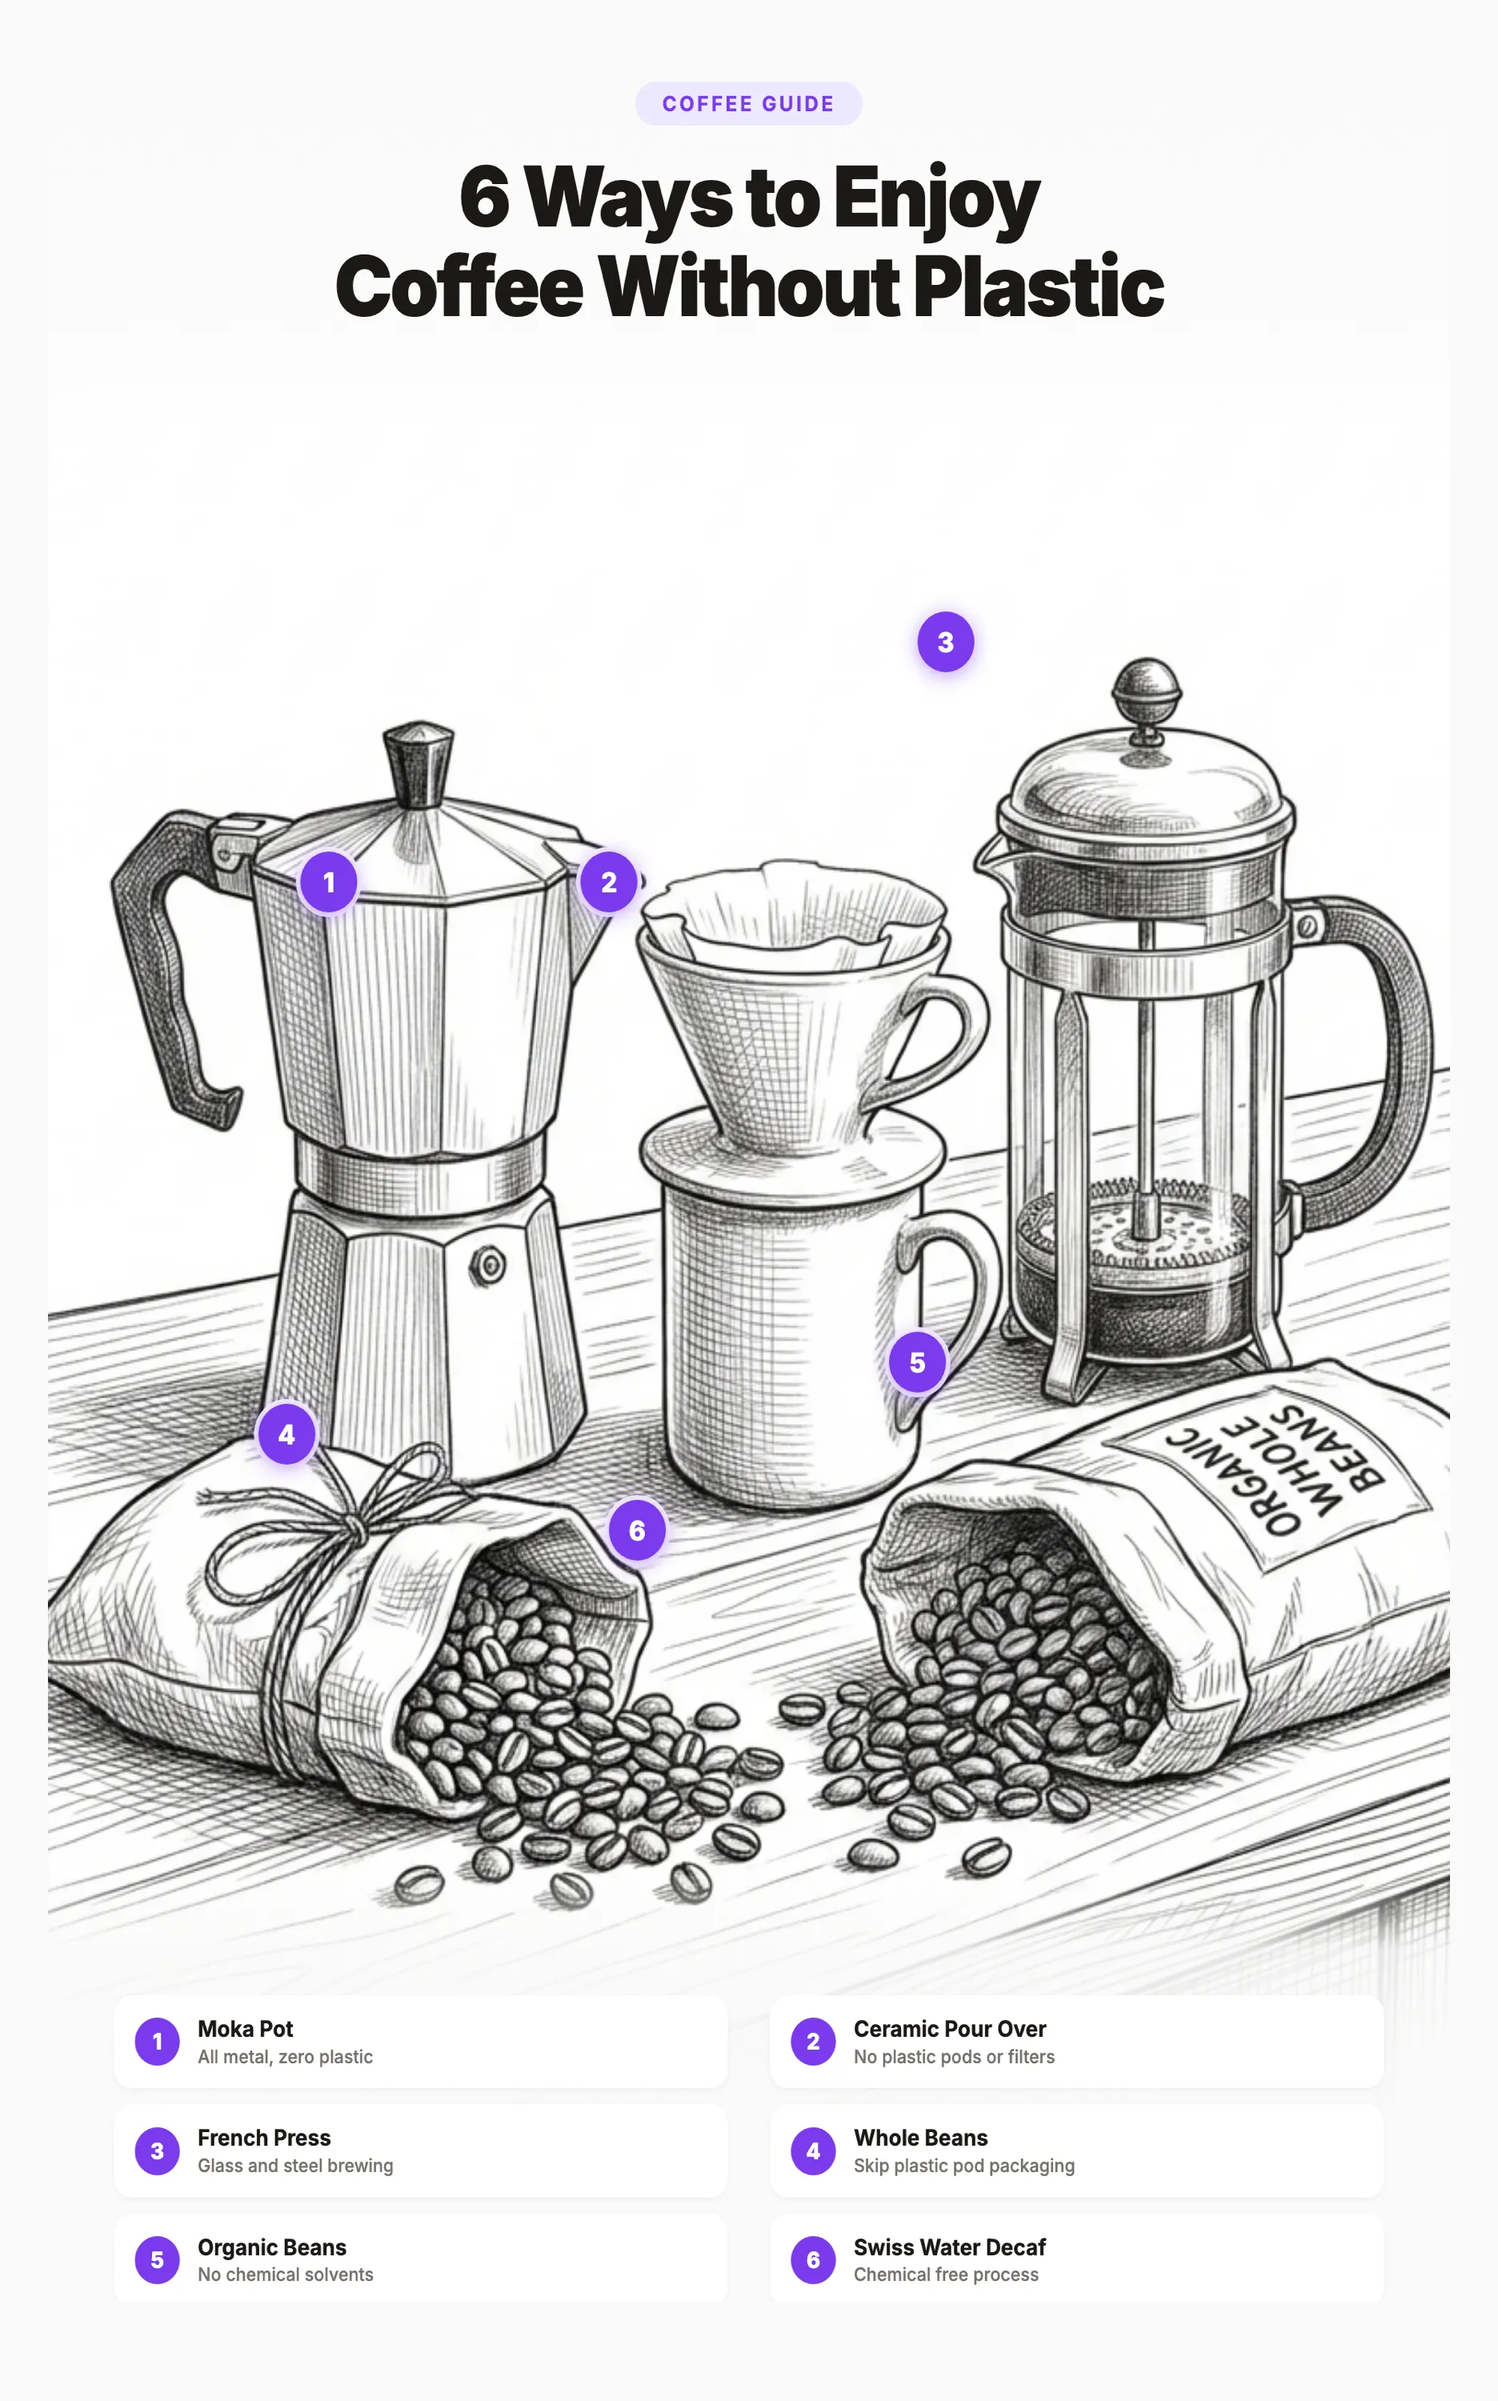
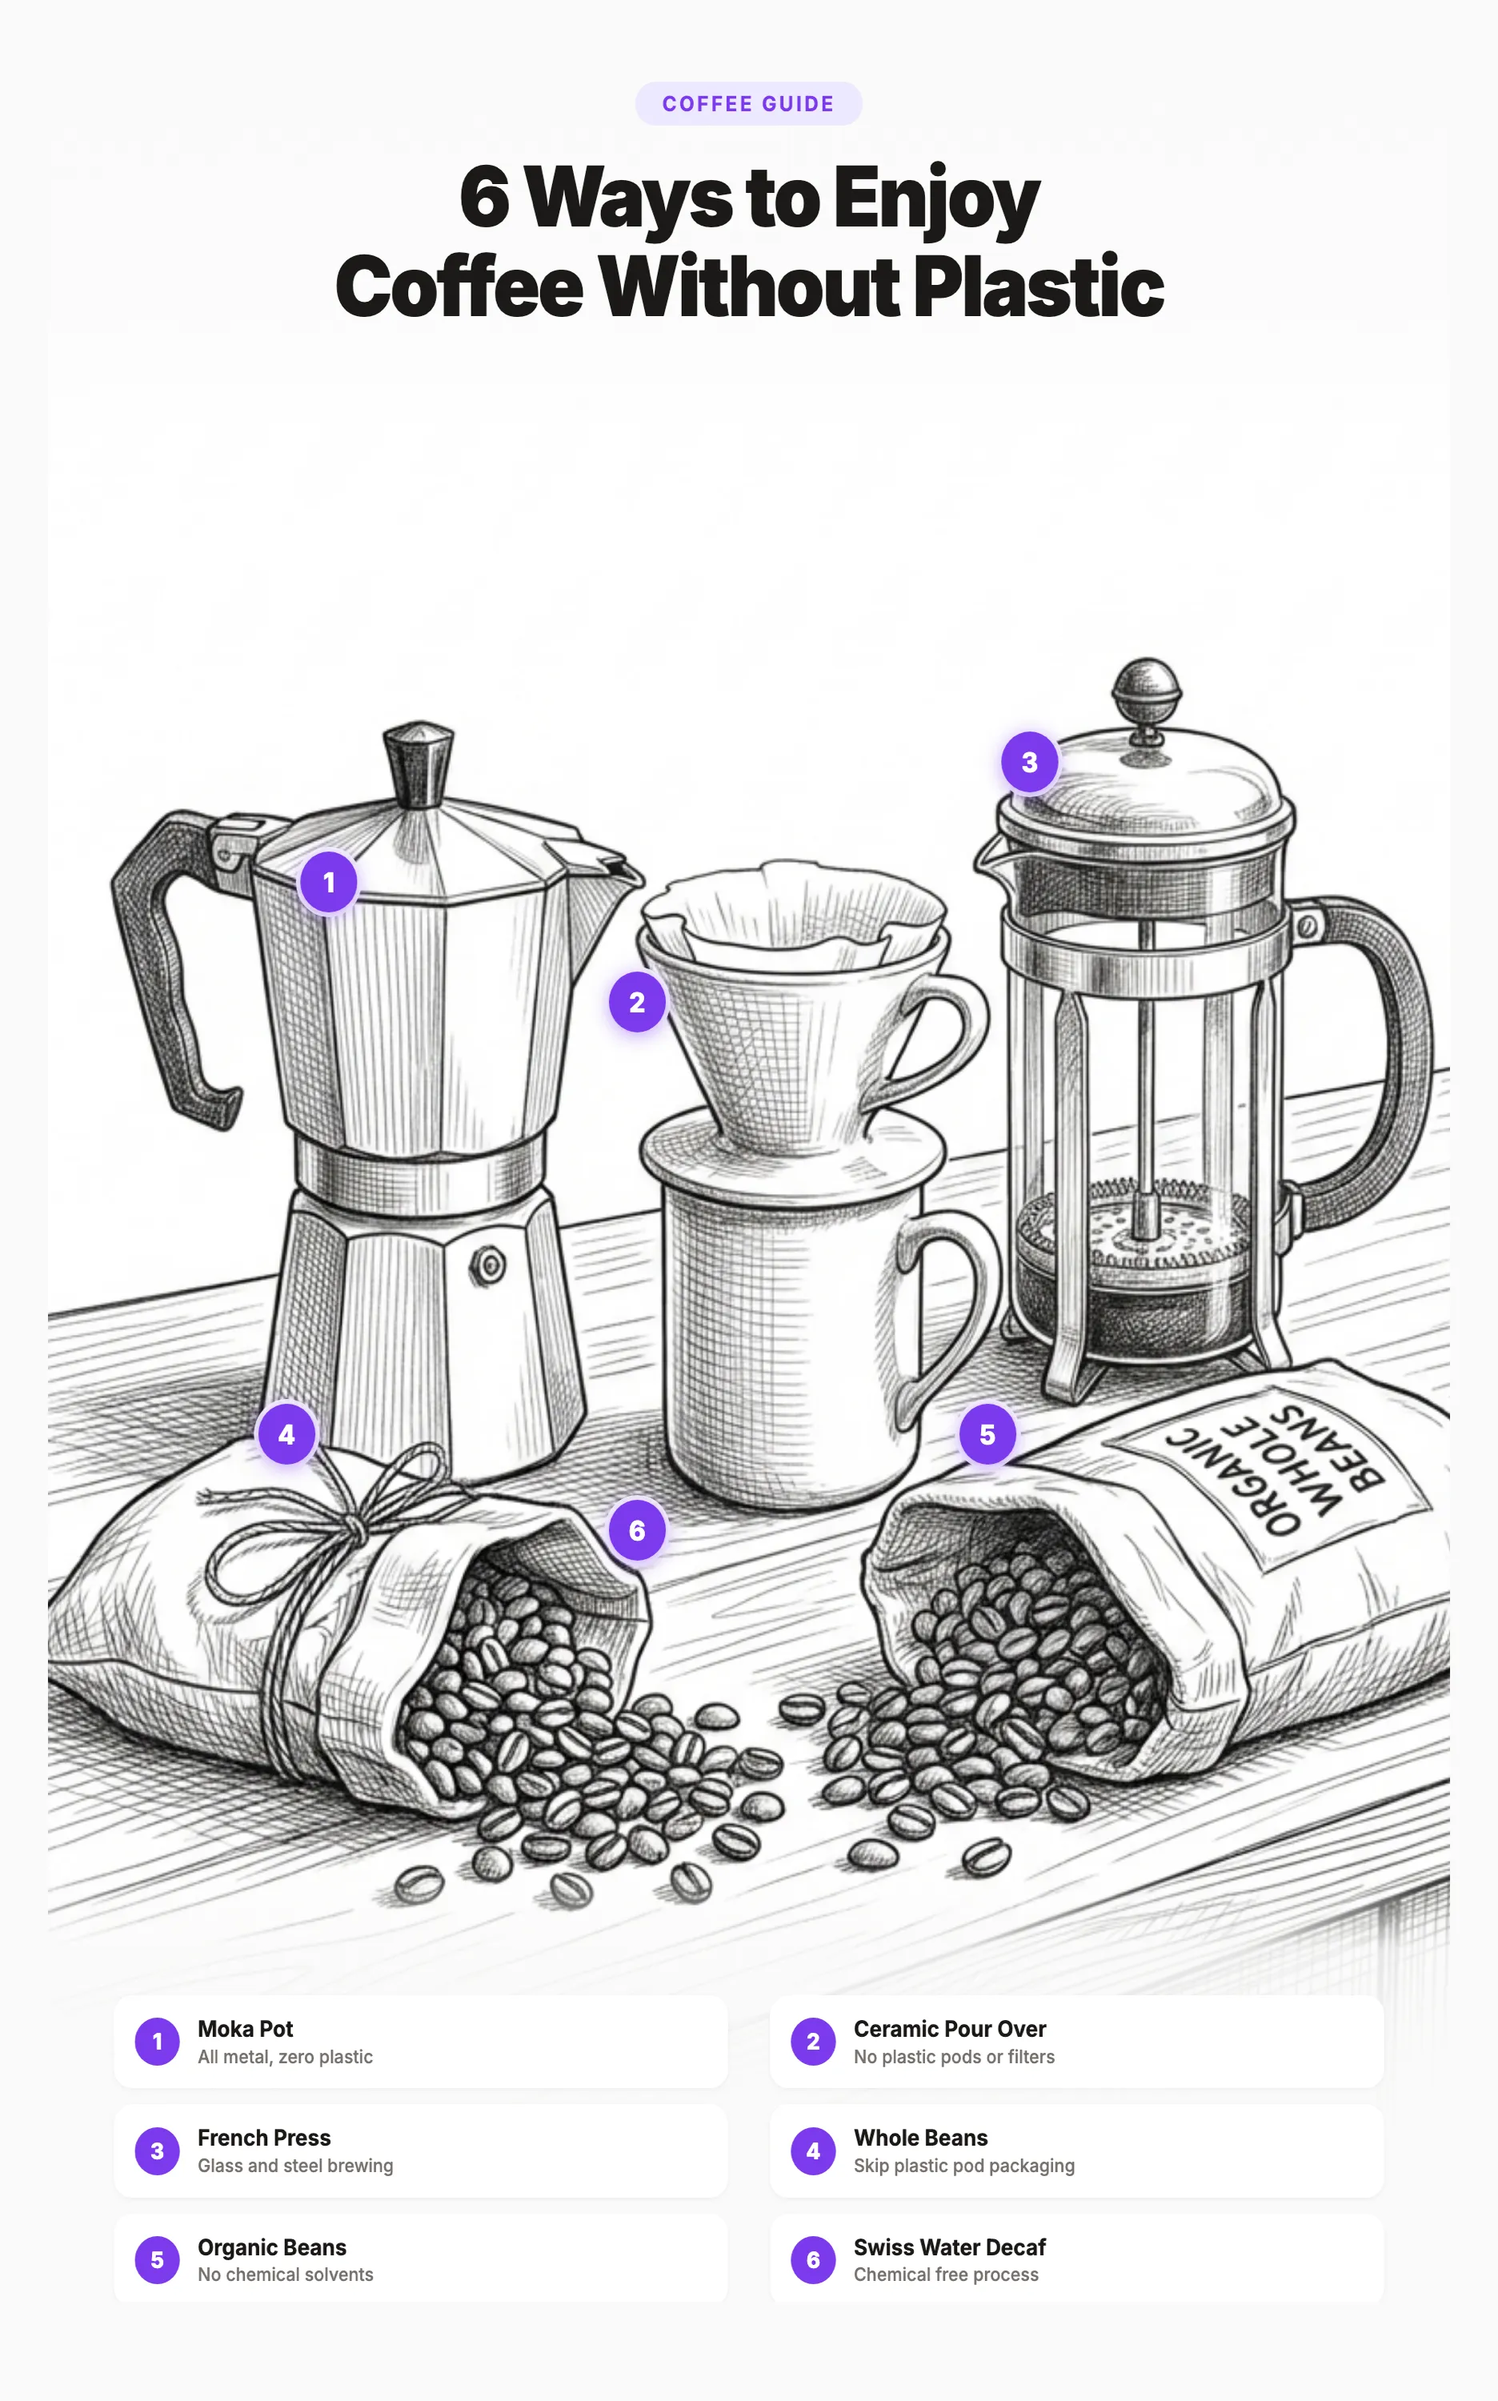
Fix coffee pin badges 2, 3, 5 positions

diff --git a/images/coffee-swap-pinterest.html b/images/coffee-swap-pinterest.html
@@ -88,10 +88,10 @@
     }
 
     .badge-1 { left: 18%; top: 35%; }
-    .badge-2 { left: 38%; top: 35%; }
-    .badge-3 { left: 62%; top: 25%; }
+    .badge-2 { left: 40%; top: 40%; }
+    .badge-3 { left: 68%; top: 30%; }
     .badge-4 { left: 15%; top: 58%; }
-    .badge-5 { left: 60%; top: 55%; }
+    .badge-5 { left: 65%; top: 58%; }
     .badge-6 { left: 40%; top: 62%; }
 
     /* ─── BOTTOM: swap legend card ─── */
